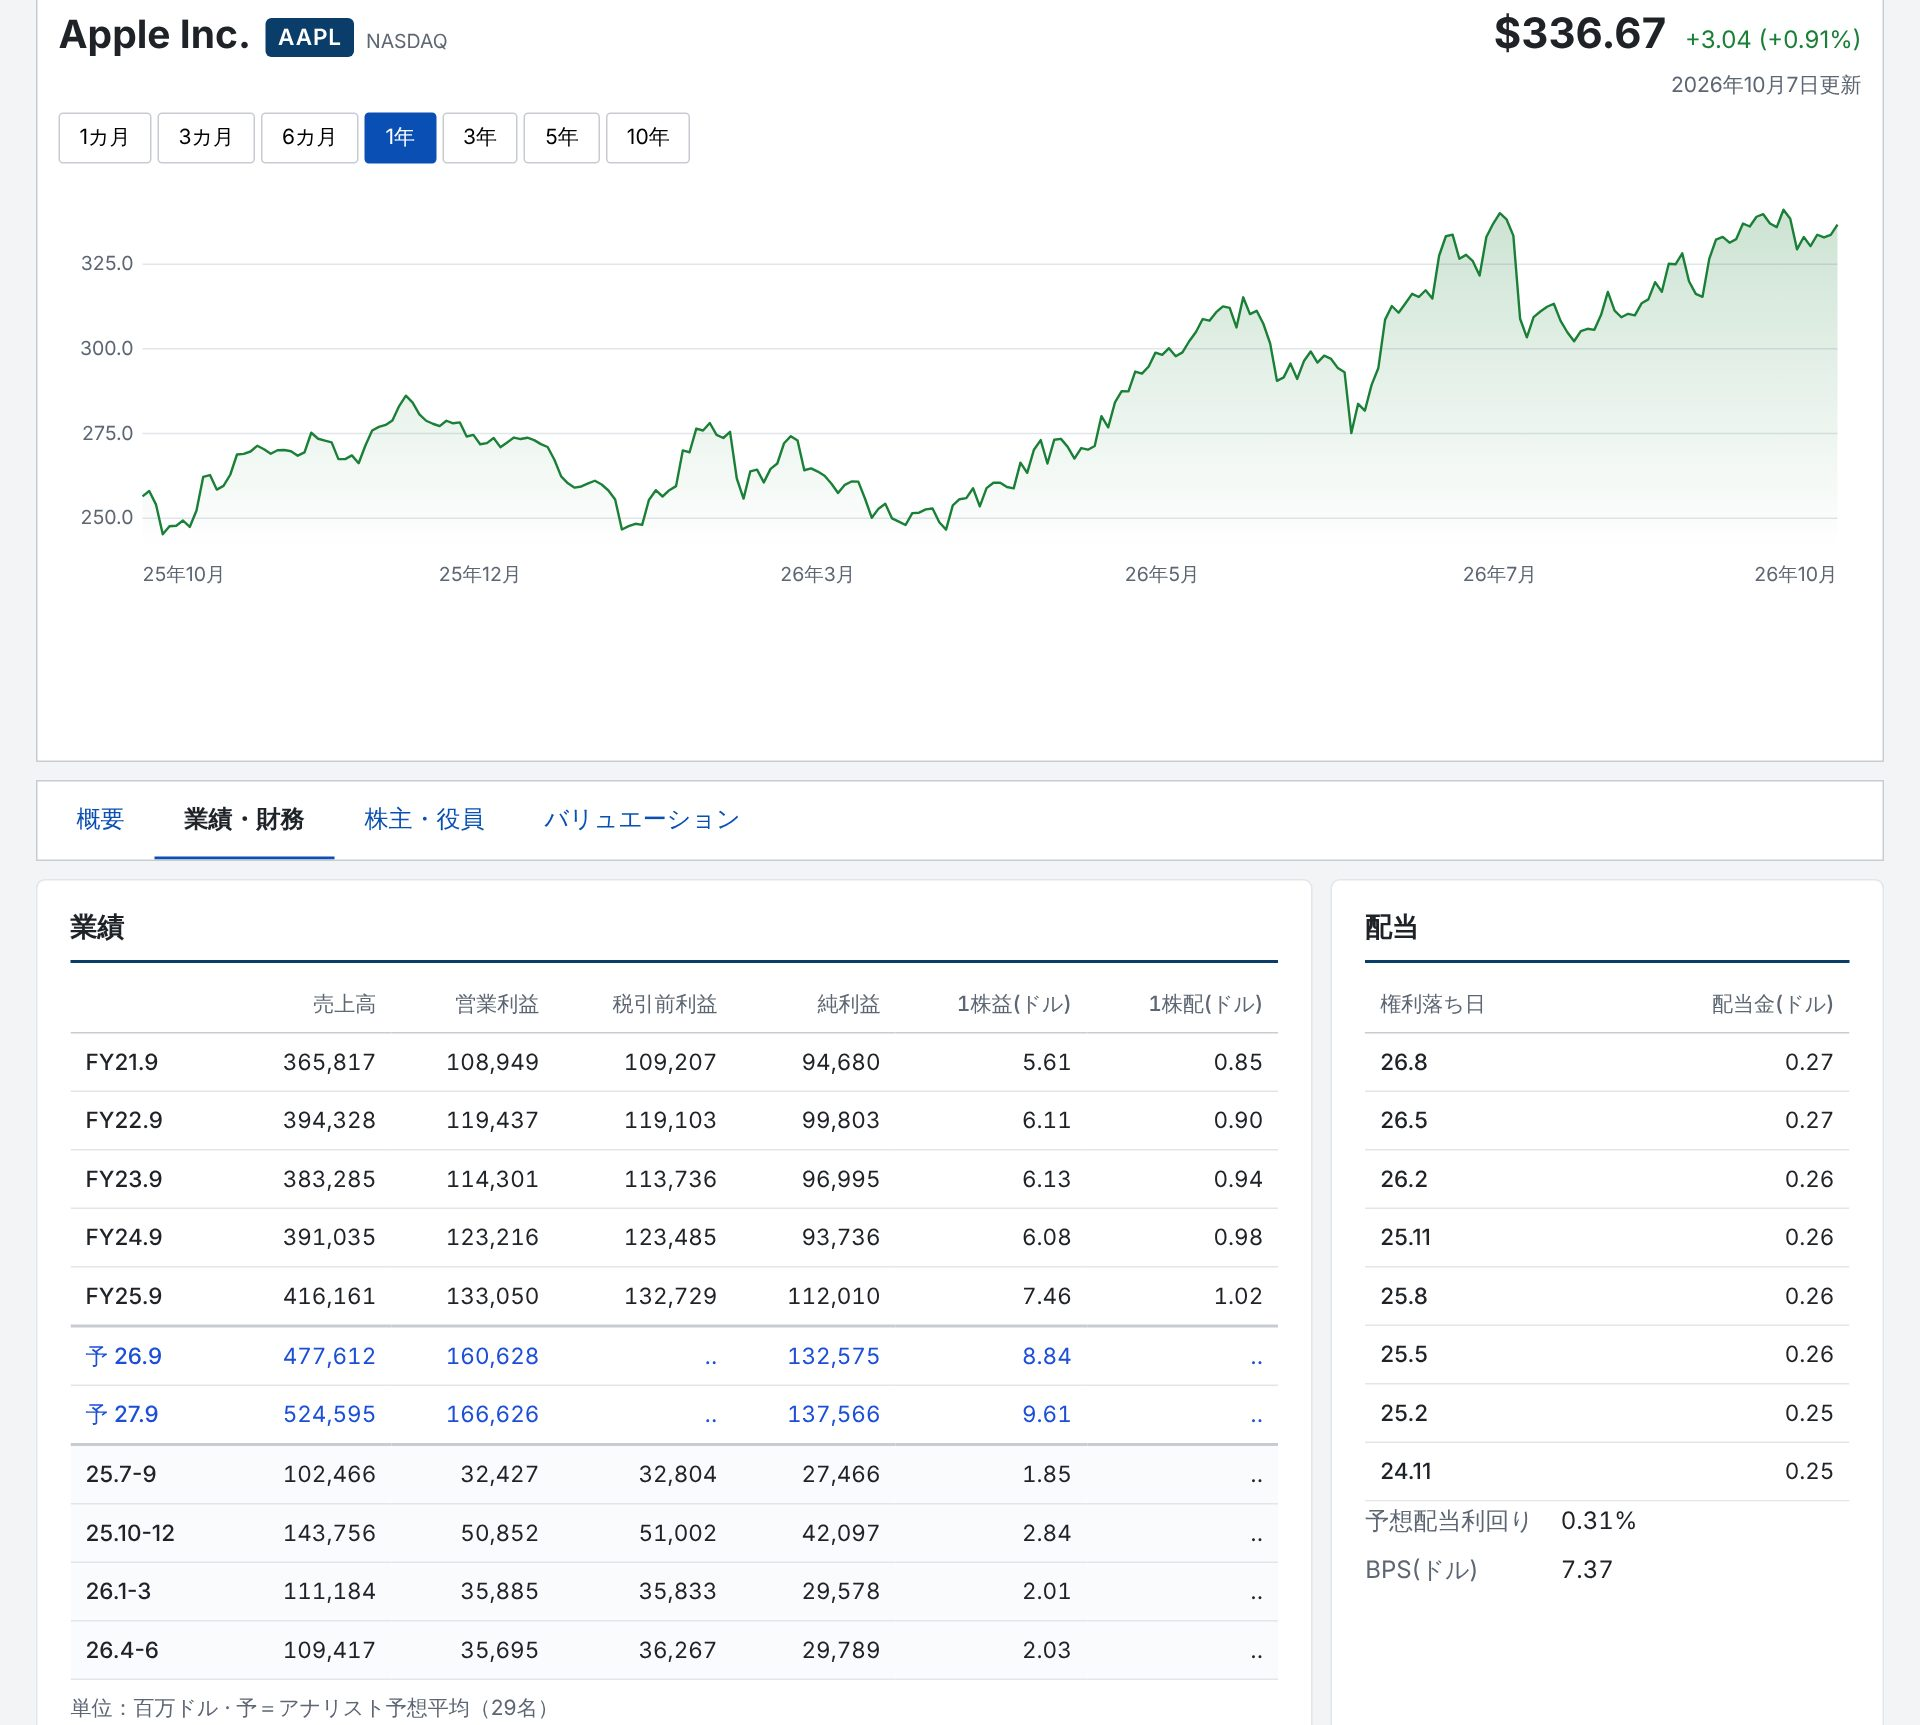
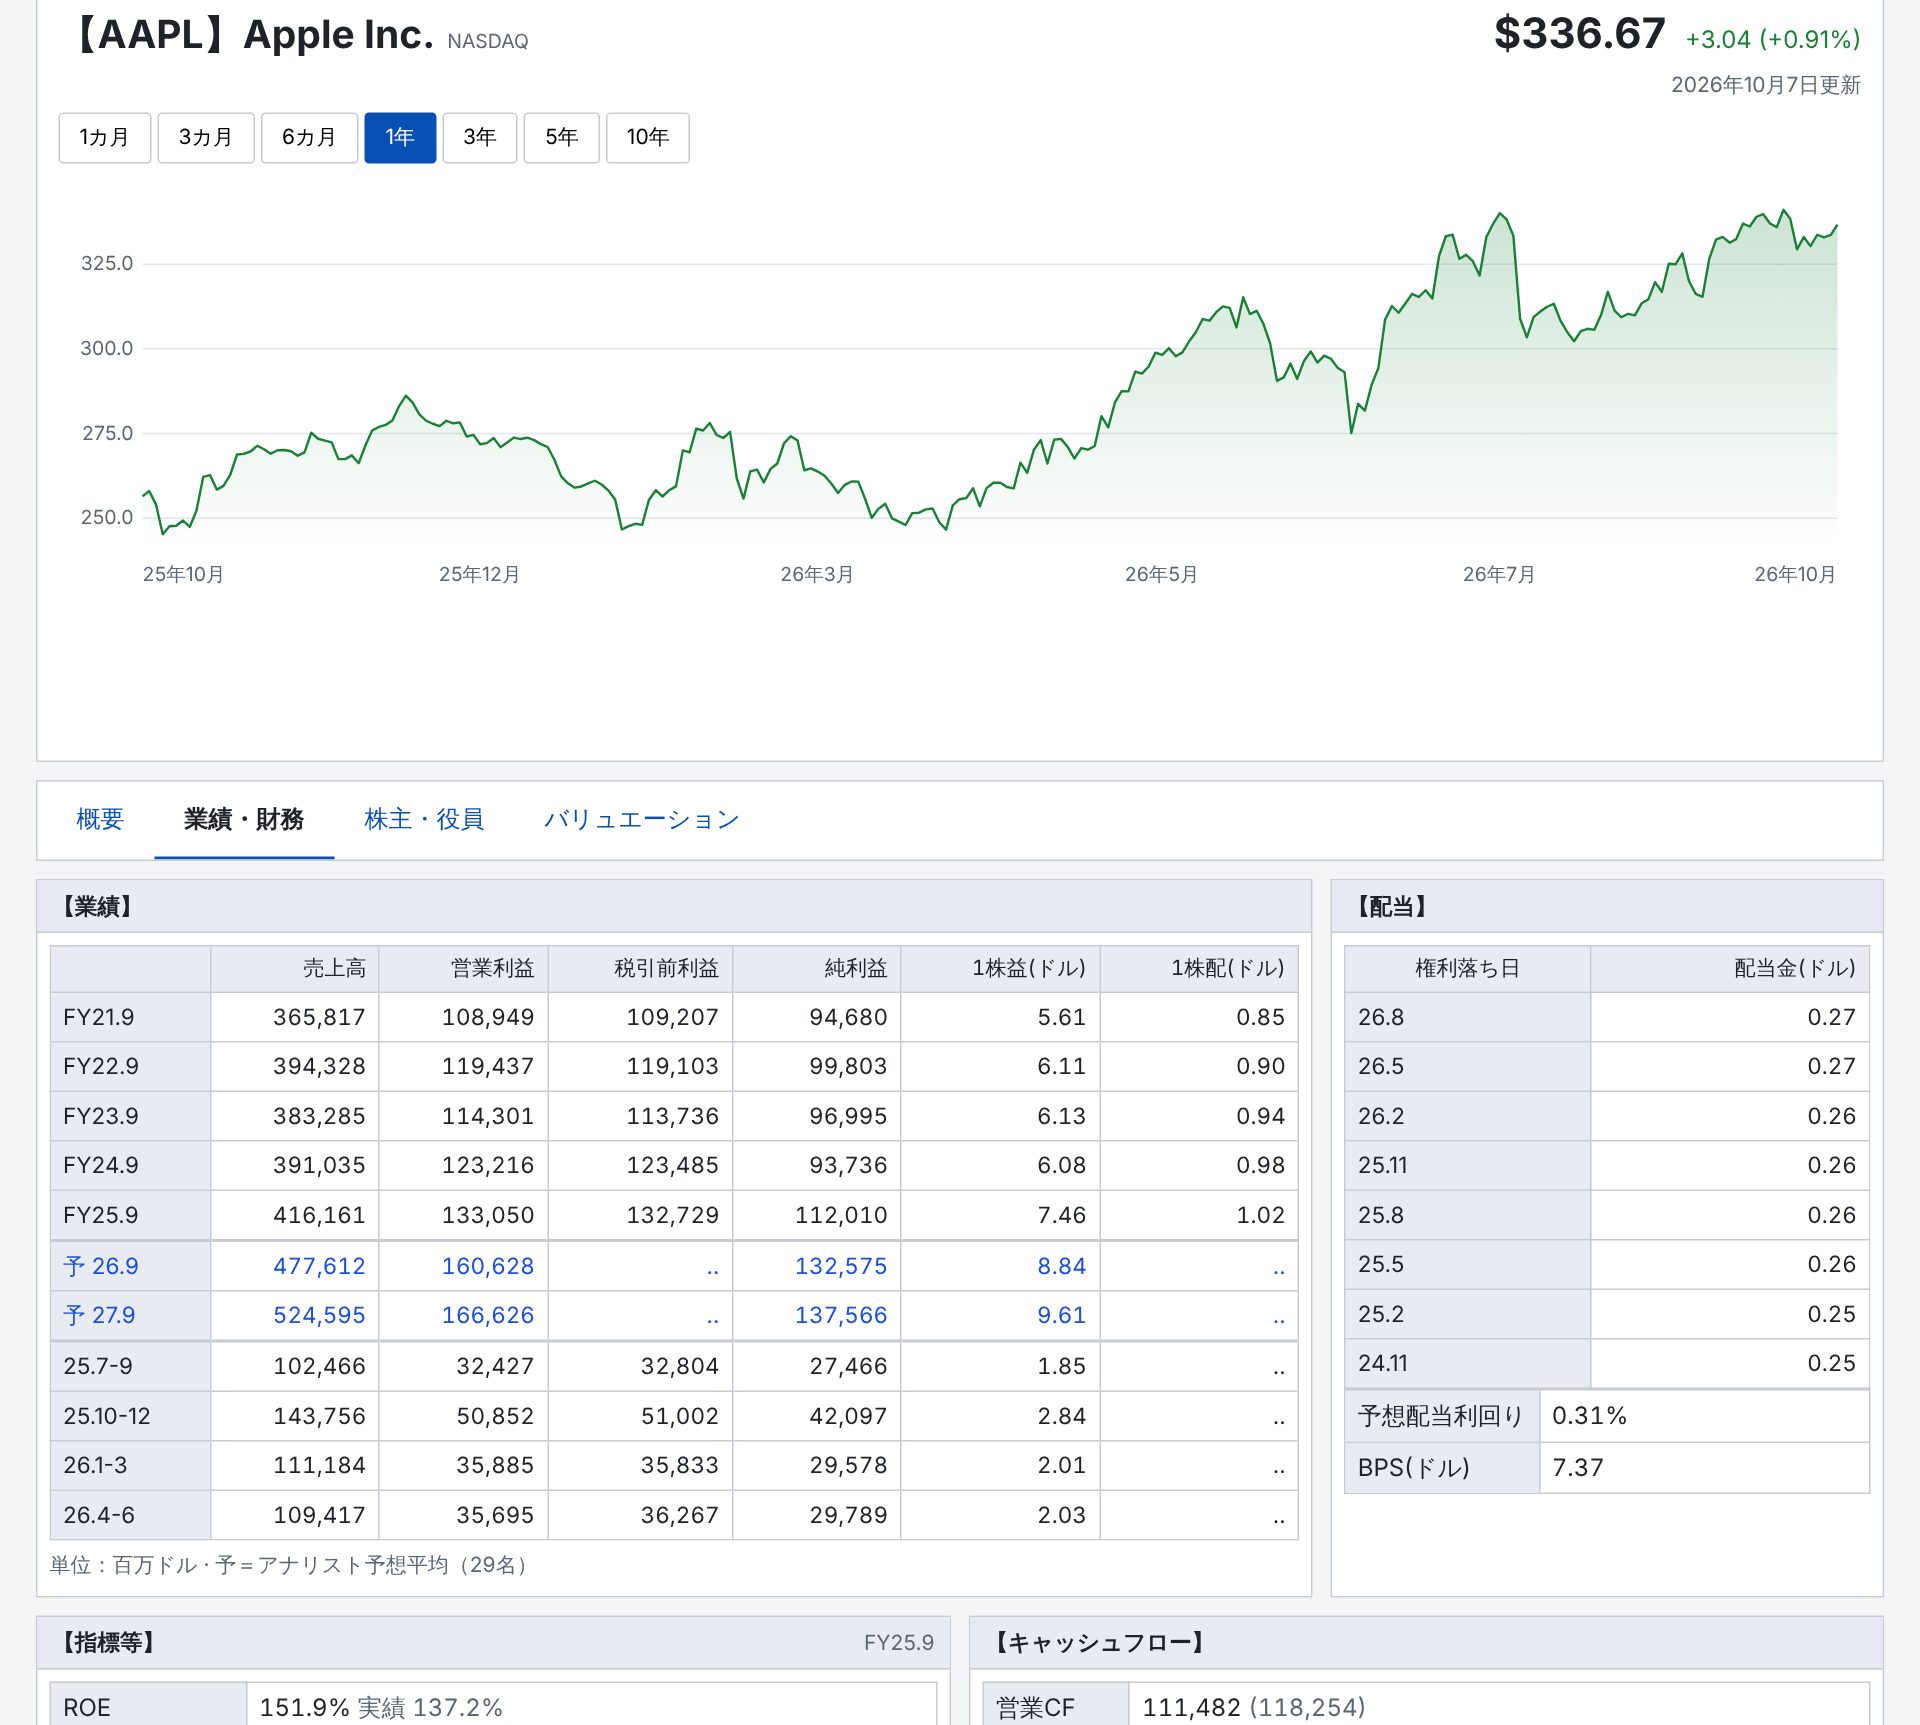
Hero text on indigo panel with seal on the print; restore Shikiho tables; trim landing
Landing: cream lettering on a translucent indigo panel for readability, the
株海図 seal stamped directly on the Hokusai banner, no small logo in the hero
or header, and the features section removed so the page is banner, sample
screens and pricing. Stock page: bordered Shikiho-style grid tables, grey
row headers and 【 】 section titles restored on top of the four-tab content.

Claude-Session: https://claude.ai/code/session_01BCnuRJrwJRXkrXek5cNWLd

Changed region(s): [[0.0312, 0.4916, 0.9688, 1.0], [0.0312, 0.0, 0.2812, 0.0307], [0.8125, 0.7067, 0.8438, 0.7374]]

diff --git a/public/styles.css b/public/styles.css
@@ -18,6 +18,7 @@
   --logo-star: #f2c14e;
   --logo-course: #ffffff;
   --seal: #be1e1e;
+  --washi: #f4ead6;
 }
 * { box-sizing: border-box; }
 html, body { margin: 0; padding: 0; }
@@ -257,16 +258,23 @@ details.method { font-size: 15px; }
 
 /* ---------- landing: wave banner ---------- */
 .hero-wave { position: relative; margin: -16px -24px 16px; min-height: 420px; background: #0b2a4a url("/img/wave.jpg") center 35% / cover no-repeat; display: flex; align-items: flex-end; overflow: hidden; }
-.hero-wave::after { content: ""; position: absolute; inset: 0; background: linear-gradient(180deg, rgba(5,20,40,.05) 0%, rgba(5,20,40,.25) 45%, rgba(5,20,40,.78) 100%); }
-.hero-wave .hero-inner { position: relative; z-index: 1; width: 100%; padding: 48px 32px 36px; color: #fff; display: flex; flex-direction: column; align-items: center; text-align: center; }
-.hero-wave .brand { color: #fff; }
-.hero-wave .brand-sub { color: rgba(255,255,255,.8); }
-.hero-wave h1 { font-size: 40px; margin: 10px 0 12px; text-wrap: balance; text-shadow: 0 2px 10px rgba(0,0,0,.45); letter-spacing: .01em; }
-.hero-wave .lead { color: rgba(255,255,255,.92); font-size: 18px; max-width: 820px; margin: 0 auto 20px; text-shadow: 0 1px 6px rgba(0,0,0,.5); }
+.hero-wave::after { content: ""; position: absolute; inset: 0; background: linear-gradient(180deg, rgba(5,20,40,0) 0%, rgba(5,20,40,.12) 60%, rgba(5,20,40,.45) 100%); }
+.hero-wave { align-items: center; justify-content: center; padding: 40px 24px; }
+.hero-wave .hero-inner { position: relative; z-index: 1; width: auto; max-width: 940px; padding: 34px 44px 28px; color: var(--washi); display: flex; flex-direction: column; align-items: center; text-align: center; background: rgba(9,28,52,.78); border: 1px solid rgba(244,234,214,.35); box-shadow: 0 10px 40px rgba(0,0,0,.35); backdrop-filter: blur(2px); border-radius: 4px; }
+.hero-wave .brand { color: var(--washi); }
+.hero-wave .brand-sub { color: rgba(244,234,214,.8); }
+.hero-wave h1 { font-size: 38px; margin: 10px 0 12px; text-wrap: balance; letter-spacing: .01em; color: var(--washi); }
+.hero-wave .lead { color: rgba(244,234,214,.9); font-size: 18px; max-width: 820px; margin: 0 auto 20px; }
 .hero-wave .actions { display: flex; gap: 12px; justify-content: center; flex-wrap: wrap; margin-bottom: 10px; }
 .hero-wave .btn.big { padding: 12px 26px; font-size: 16px; }
 .hero-wave .btn:not(.primary) { background: rgba(255,255,255,.92); }
-.hero-wave .small { color: rgba(255,255,255,.85); }
+.hero-wave .small { color: rgba(244,234,214,.8); }
+.hero-wave .btn.primary { background: var(--seal); border-color: var(--seal); }
+.hero-wave .btn.primary:hover { background: #a21818; }
+.hero-seal { position: absolute; right: 3.5%; bottom: 9%; height: 46%; width: auto; z-index: 1; filter: drop-shadow(0 4px 10px rgba(0,0,0,.35)); }
+.hero-wave .brand-text { align-items: center; }
+.hero-wave .brand-name { font-size: 40px; }
+.hero-wave .brand-sub { font-size: 13px; margin-top: 4px; }
 .hero-credit { position: absolute; right: 12px; bottom: 8px; z-index: 1; font-size: 11px; color: rgba(255,255,255,.6); }
 .land h2 { font-size: 24px; }
 .land h3 { font-size: 17px; }
@@ -276,4 +284,36 @@ details.method { font-size: 15px; }
 .pricecard .amount { font-size: 36px; }
 .pricecard ul { font-size: 16px; }
 .shotframe img { max-width: 1200px; }
-@media (max-width: 640px) { body { font-size: 15px; } main { padding: 10px 12px 30px; } .topbar .inner { padding: 8px 12px; } .title-row h1 { font-size: 20px; } .price { font-size: 22px; } .chart { min-height: 300px; } table.tbl { font-size: 13.5px; } .kv2 { font-size: 15px; } .hero-wave { margin: -10px -12px 12px; min-height: 340px; } .hero-wave h1 { font-size: 26px; } .hero-wave .lead { font-size: 15px; } .hero-wave .hero-inner { padding: 28px 16px 24px; } .hero .logo-mark { width: 80px; height: 80px; } .hero .logo-mark .seal { font-size: 14px; } }
+@media (max-width: 640px) { body { font-size: 15px; } main { padding: 10px 12px 30px; } .topbar .inner { padding: 8px 12px; } .title-row h1 { font-size: 20px; } .price { font-size: 22px; } .chart { min-height: 300px; } table.tbl { font-size: 13.5px; } .kv2 { font-size: 15px; } .hero-wave { margin: -10px -12px 12px; min-height: 340px; } .hero-wave h1 { font-size: 26px; } .hero-wave .lead { font-size: 15px; } .hero-wave .hero-inner { padding: 24px 16px 20px; } .hero-wave { padding: 16px 10px 130px; } .hero-seal { height: 104px; right: 12px; bottom: 14px; } .hero-wave .brand-name { font-size: 30px; } .hero .logo-mark { width: 80px; height: 80px; } .hero .logo-mark .seal { font-size: 14px; } }
+
+/* ---------- Shikiho-style tables (restored) ---------- */
+.card { border: 1px solid var(--border); border-radius: 0; padding: 0 0 8px; }
+.sec { margin: 0 0 8px; padding: 5px 10px; background: var(--head); border-bottom: 1px solid var(--border); font-size: 15px; font-weight: 700; }
+.sec::before { content: "【"; } .sec::after { content: "】"; }
+.sec .sec-extra::before, .sec .sec-extra::after { content: none; }
+.sec { display: block; } .sec > .sec-extra { float: right; margin-top: 2px; }
+.sec.plain { background: none; border: 0; padding: 6px 0; margin: 4px 0; }
+.card > :not(.sec) { margin-left: 8px; margin-right: 8px; }
+.card > .tw { margin-left: 8px; margin-right: 8px; }
+.card .note { margin: 6px 8px 0; }
+.sub { margin: 14px 8px 6px; }
+table.tbl { border: 1px solid var(--border); }
+table.tbl th, table.tbl td { border: 1px solid var(--border); padding: 4px 8px; }
+table.tbl thead th { background: var(--head); color: var(--text); font-size: 14px; text-align: center; font-weight: 400; }
+table.tbl tbody th { background: var(--head); font-weight: 400; text-align: left; }
+table.tbl tr.quarter td, table.tbl tr.quarter th { background: inherit; }
+table.tbl tr.quarter th { background: var(--head); }
+table.sens td.base { background: #eef3fa; }
+.kv2 { gap: 0; border: 1px solid var(--border); border-top: 0; }
+.kv2 dt { background: var(--head); border-top: 1px solid var(--border); border-right: 1px solid var(--border); padding: 4px 8px; color: var(--text); }
+.kv2 dd { border-top: 1px solid var(--border); padding: 4px 8px; }
+.stats { gap: 0; border: 1px solid var(--border); background: var(--panel); }
+.stat { border: 0; border-right: 1px solid var(--border); border-radius: 0; }
+.stat:last-child { border-right: 0; }
+.ai { padding: 2px 4px; }
+.feature { padding: 2px 4px; }
+.officers li { border-bottom: 1px solid var(--border); }
+.officers { margin: 0 8px; }
+.title-row h1 .co::before { content: "【" attr(data-sym) "】"; }
+.title-row h1 .ticker { display: none; }
+@media (max-width: 720px) { .stat { border-right: 0; border-bottom: 1px solid var(--border); } .stat:nth-child(odd) { border-right: 1px solid var(--border); } .kv2 dt { border-right: 0; } }

diff --git a/public/app.js b/public/app.js
@@ -129,9 +129,8 @@
     const price = state.config.priceLabel;
     if (!state.user) {
       const L = t("landing");
-      const logo = `<div class="brand">${$("#logoTpl").innerHTML}<span class="brand-text"><span class="brand-name">Kabukaizu</span><span class="brand-sub">US Stock Almanac</span></span></div>`;
       app.innerHTML = `
-      <section class="hero hero-wave"><div class="hero-inner">${logo}
+      <section class="hero hero-wave"><img class="hero-seal" src="/img/seal.png" alt="株海図"><div class="hero-inner"><div class="brand"><span class="brand-text"><span class="brand-name">Kabukaizu</span><span class="brand-sub">US Stock Almanac</span></span></div>
         <h1>${esc(L.heroTitle)}</h1><p class="lead">${esc(L.heroLead)}</p>
         <div class="actions"><a class="btn primary big" href="#/signup">${esc(L.ctaPrimary)}</a><a class="btn big" href="#/login">${esc(L.ctaSecondary)}</a></div>
         <p class="small">${esc(L.ctaNote.replace("{price}", price))}</p>
@@ -142,10 +141,6 @@
           <div class="gallery-tabs">${L.samples.map((x, i) => `<button data-sample="${x.key}" class="${i === 0 ? "active" : ""}">${esc(x.label)}</button>`).join("")}</div>
           <figure class="shotframe"><img id="sampleImg" src="/img/sample-${L.samples[0].key}.jpg" alt="${esc(L.samples[0].label)}" loading="eager"><figcaption id="sampleCap">${esc(L.samples[0].caption)}</figcaption></figure>
         </div>
-      </section>
-      <section class="land">
-        <h2>${esc(L.featuresTitle)}</h2>
-        <div class="features">${L.features.map((f) => `<div class="feat"><h3>${esc(f.title)}</h3><p>${esc(f.body)}</p></div>`).join("")}</div>
       </section>
       <section class="land pricing">
         <h2>${esc(L.pricingTitle)}</h2>
@@ -275,7 +270,7 @@
     const sign = chg > 0 ? "+" : "";
     app.innerHTML = `
       <div class="panel">
-        <div class="title-row"><h1><span class="co">${esc(b.company.name)}</span><span class="ticker">${esc(b.symbol)}</span><span class="ex">${esc(b.company.exchange)}</span></h1>
+        <div class="title-row"><h1><span class="co" data-sym="${esc(b.symbol)}">${esc(b.company.name)}</span><span class="ticker">${esc(b.symbol)}</span><span class="ex">${esc(b.company.exchange)}</span></h1>
           <div class="price">$${fmtDec(m.price)} <small class="${cls}">${sign}${fmtDec(m.change)} (${sign}${fmtDec(m.changePct)}%)</small></div></div>
         <div class="meta">${t("updated", { date: fmtDate(m.quoteTime || b.asOf) })}</div>
         <div class="ranges" id="ranges">${Object.keys(t("ranges")).map((r) => `<button data-range="${r}" class="${r === state.chartRange ? "active" : ""}">${t("ranges")[r]}</button>`).join("")}</div>

diff --git a/public/index.html b/public/index.html
@@ -12,8 +12,7 @@
 <body>
   <header class="topbar">
     <div class="inner">
-      <a class="brand" href="#/" id="brand"><span class="logo-mark"><img src="/img/logo-512.jpg" alt="Kabukaizu"></span><span class="brand-text"><span class="brand-name">Kabukaizu</span><span class="brand-sub">US Stock Almanac</span></span></a>
-      <template id="logoTpl"><span class="logo-mark"><img src="/img/logo-512.jpg" alt="Kabukaizu"></span></template>
+      <a class="brand" href="#/" id="brand"><span class="brand-text"><span class="brand-name">Kabukaizu</span><span class="brand-sub">US Stock Almanac</span></span></a>
       <form class="searchbox" id="searchForm" autocomplete="off">
         <input id="searchInput" placeholder="ティッカー・会社名" maxlength="40">
         <button class="btn primary" type="submit" id="searchBtn">検索</button>
